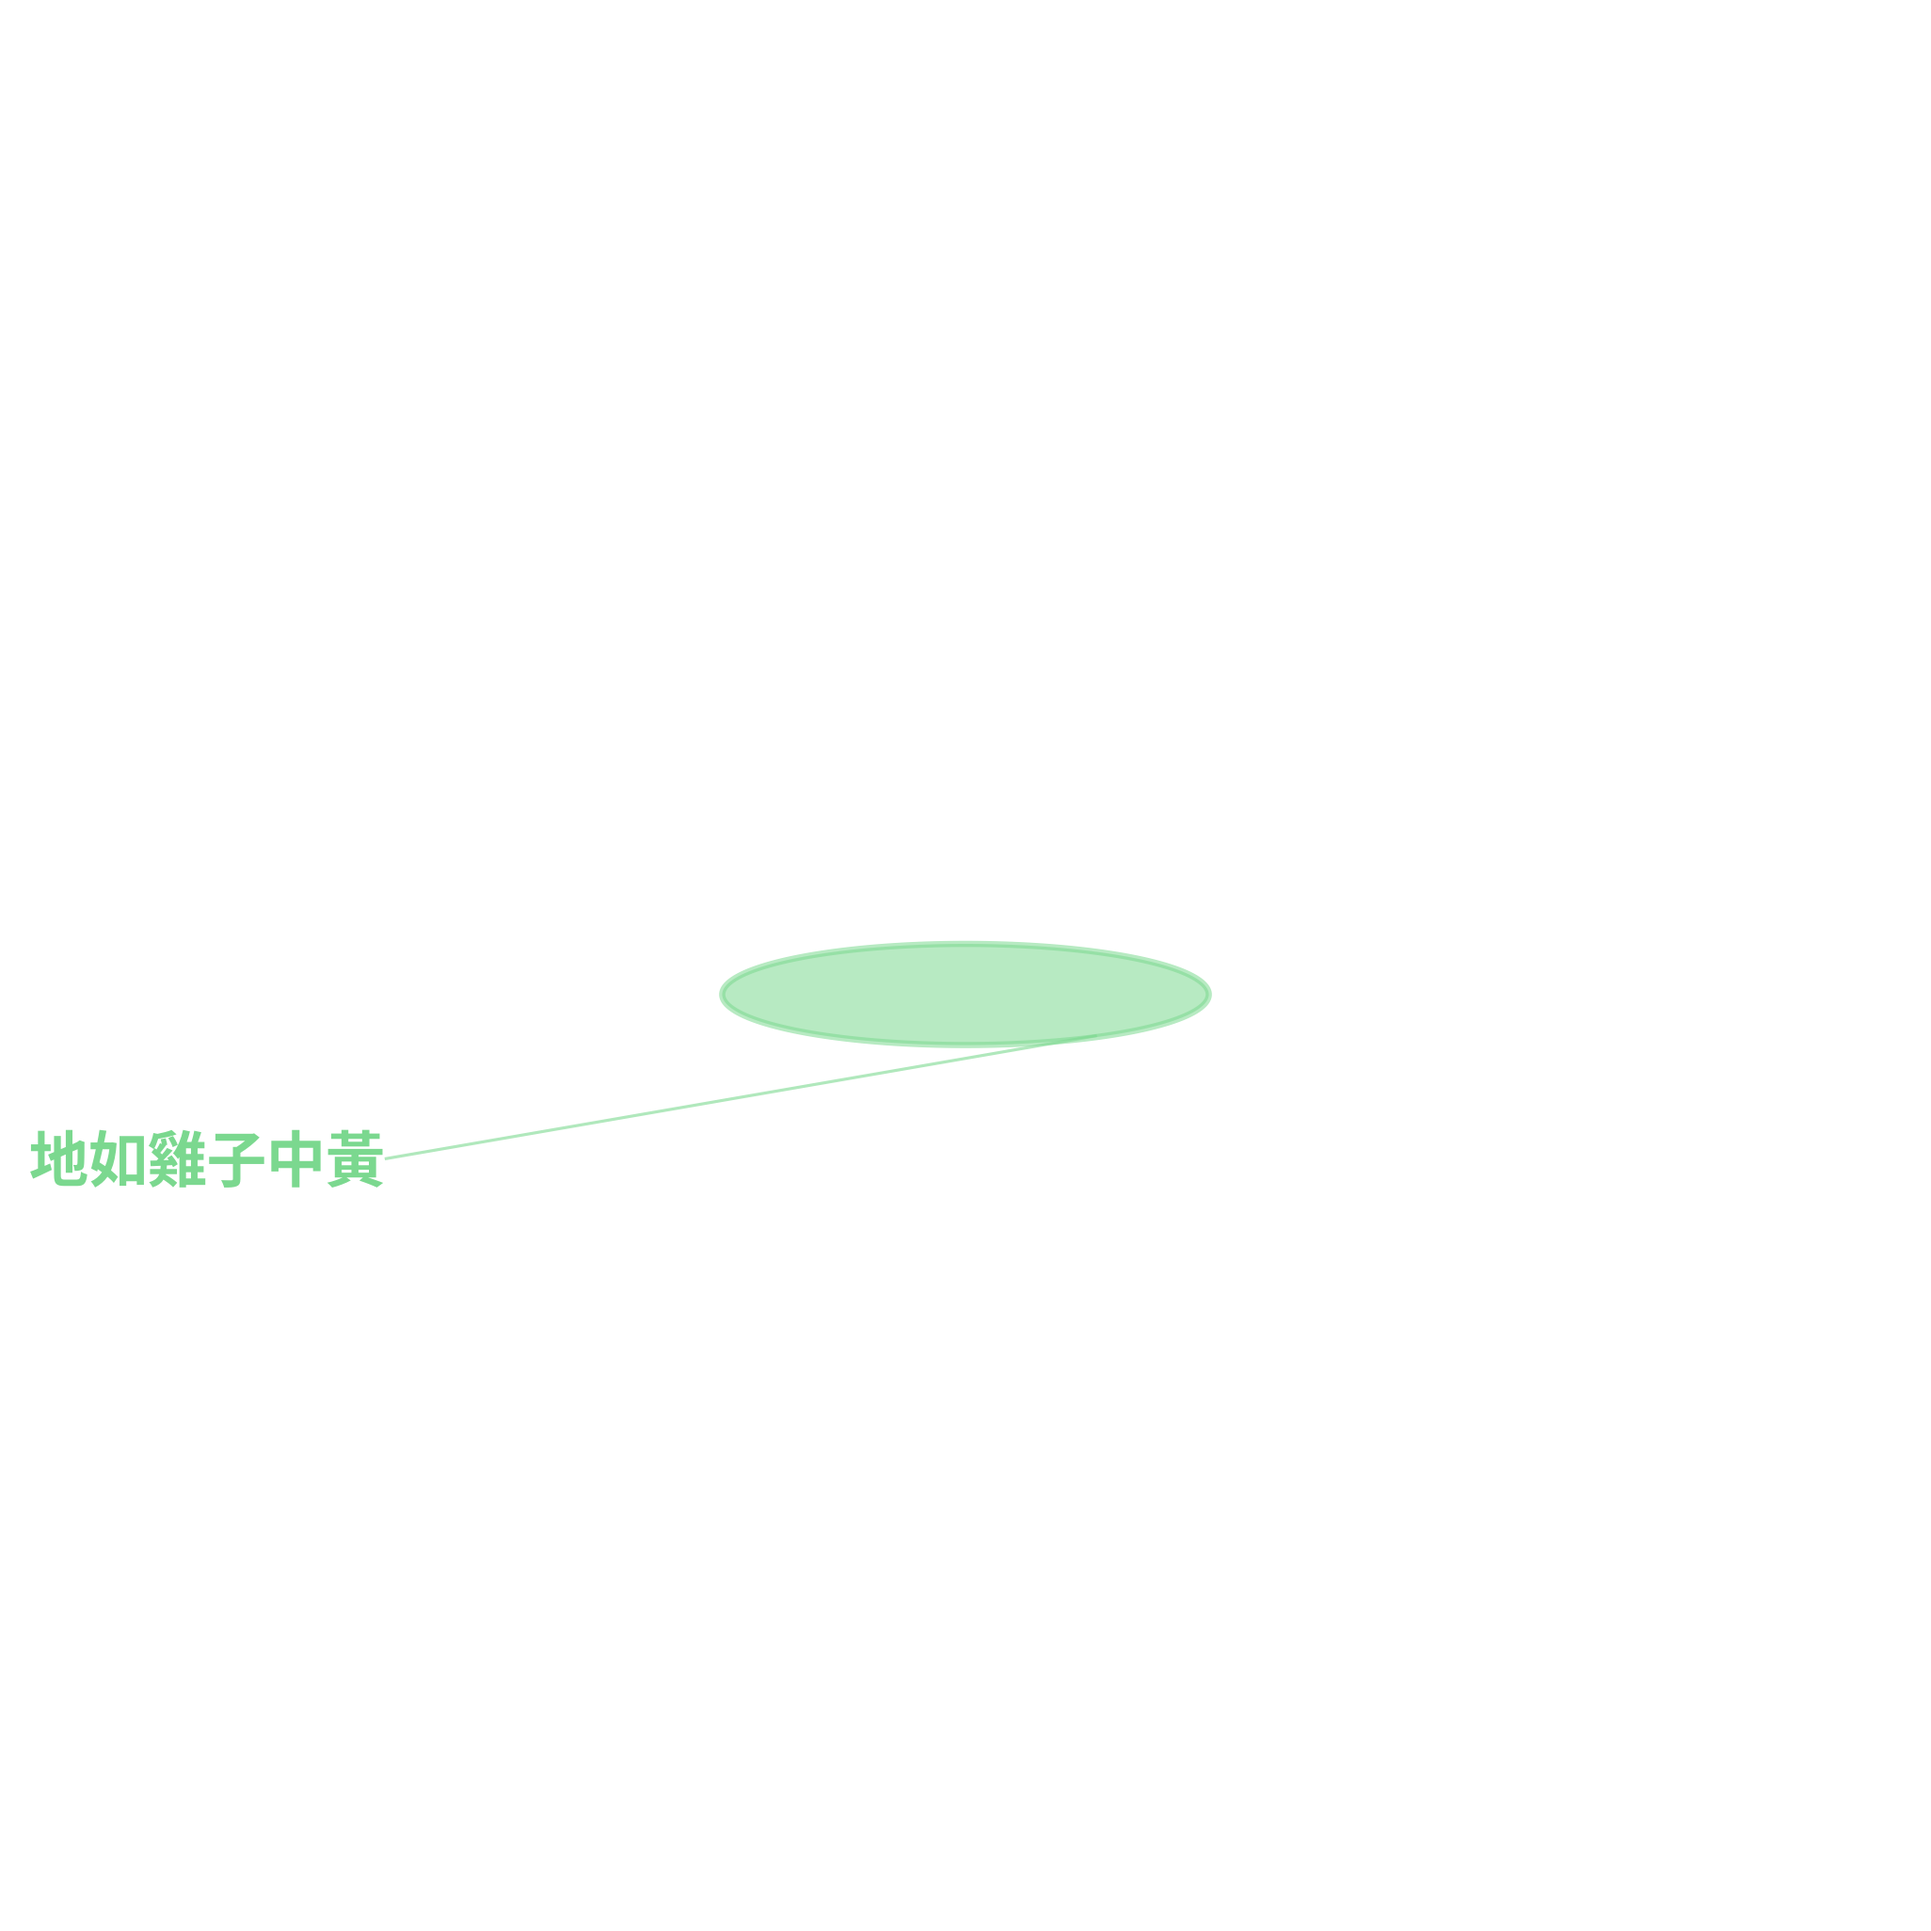
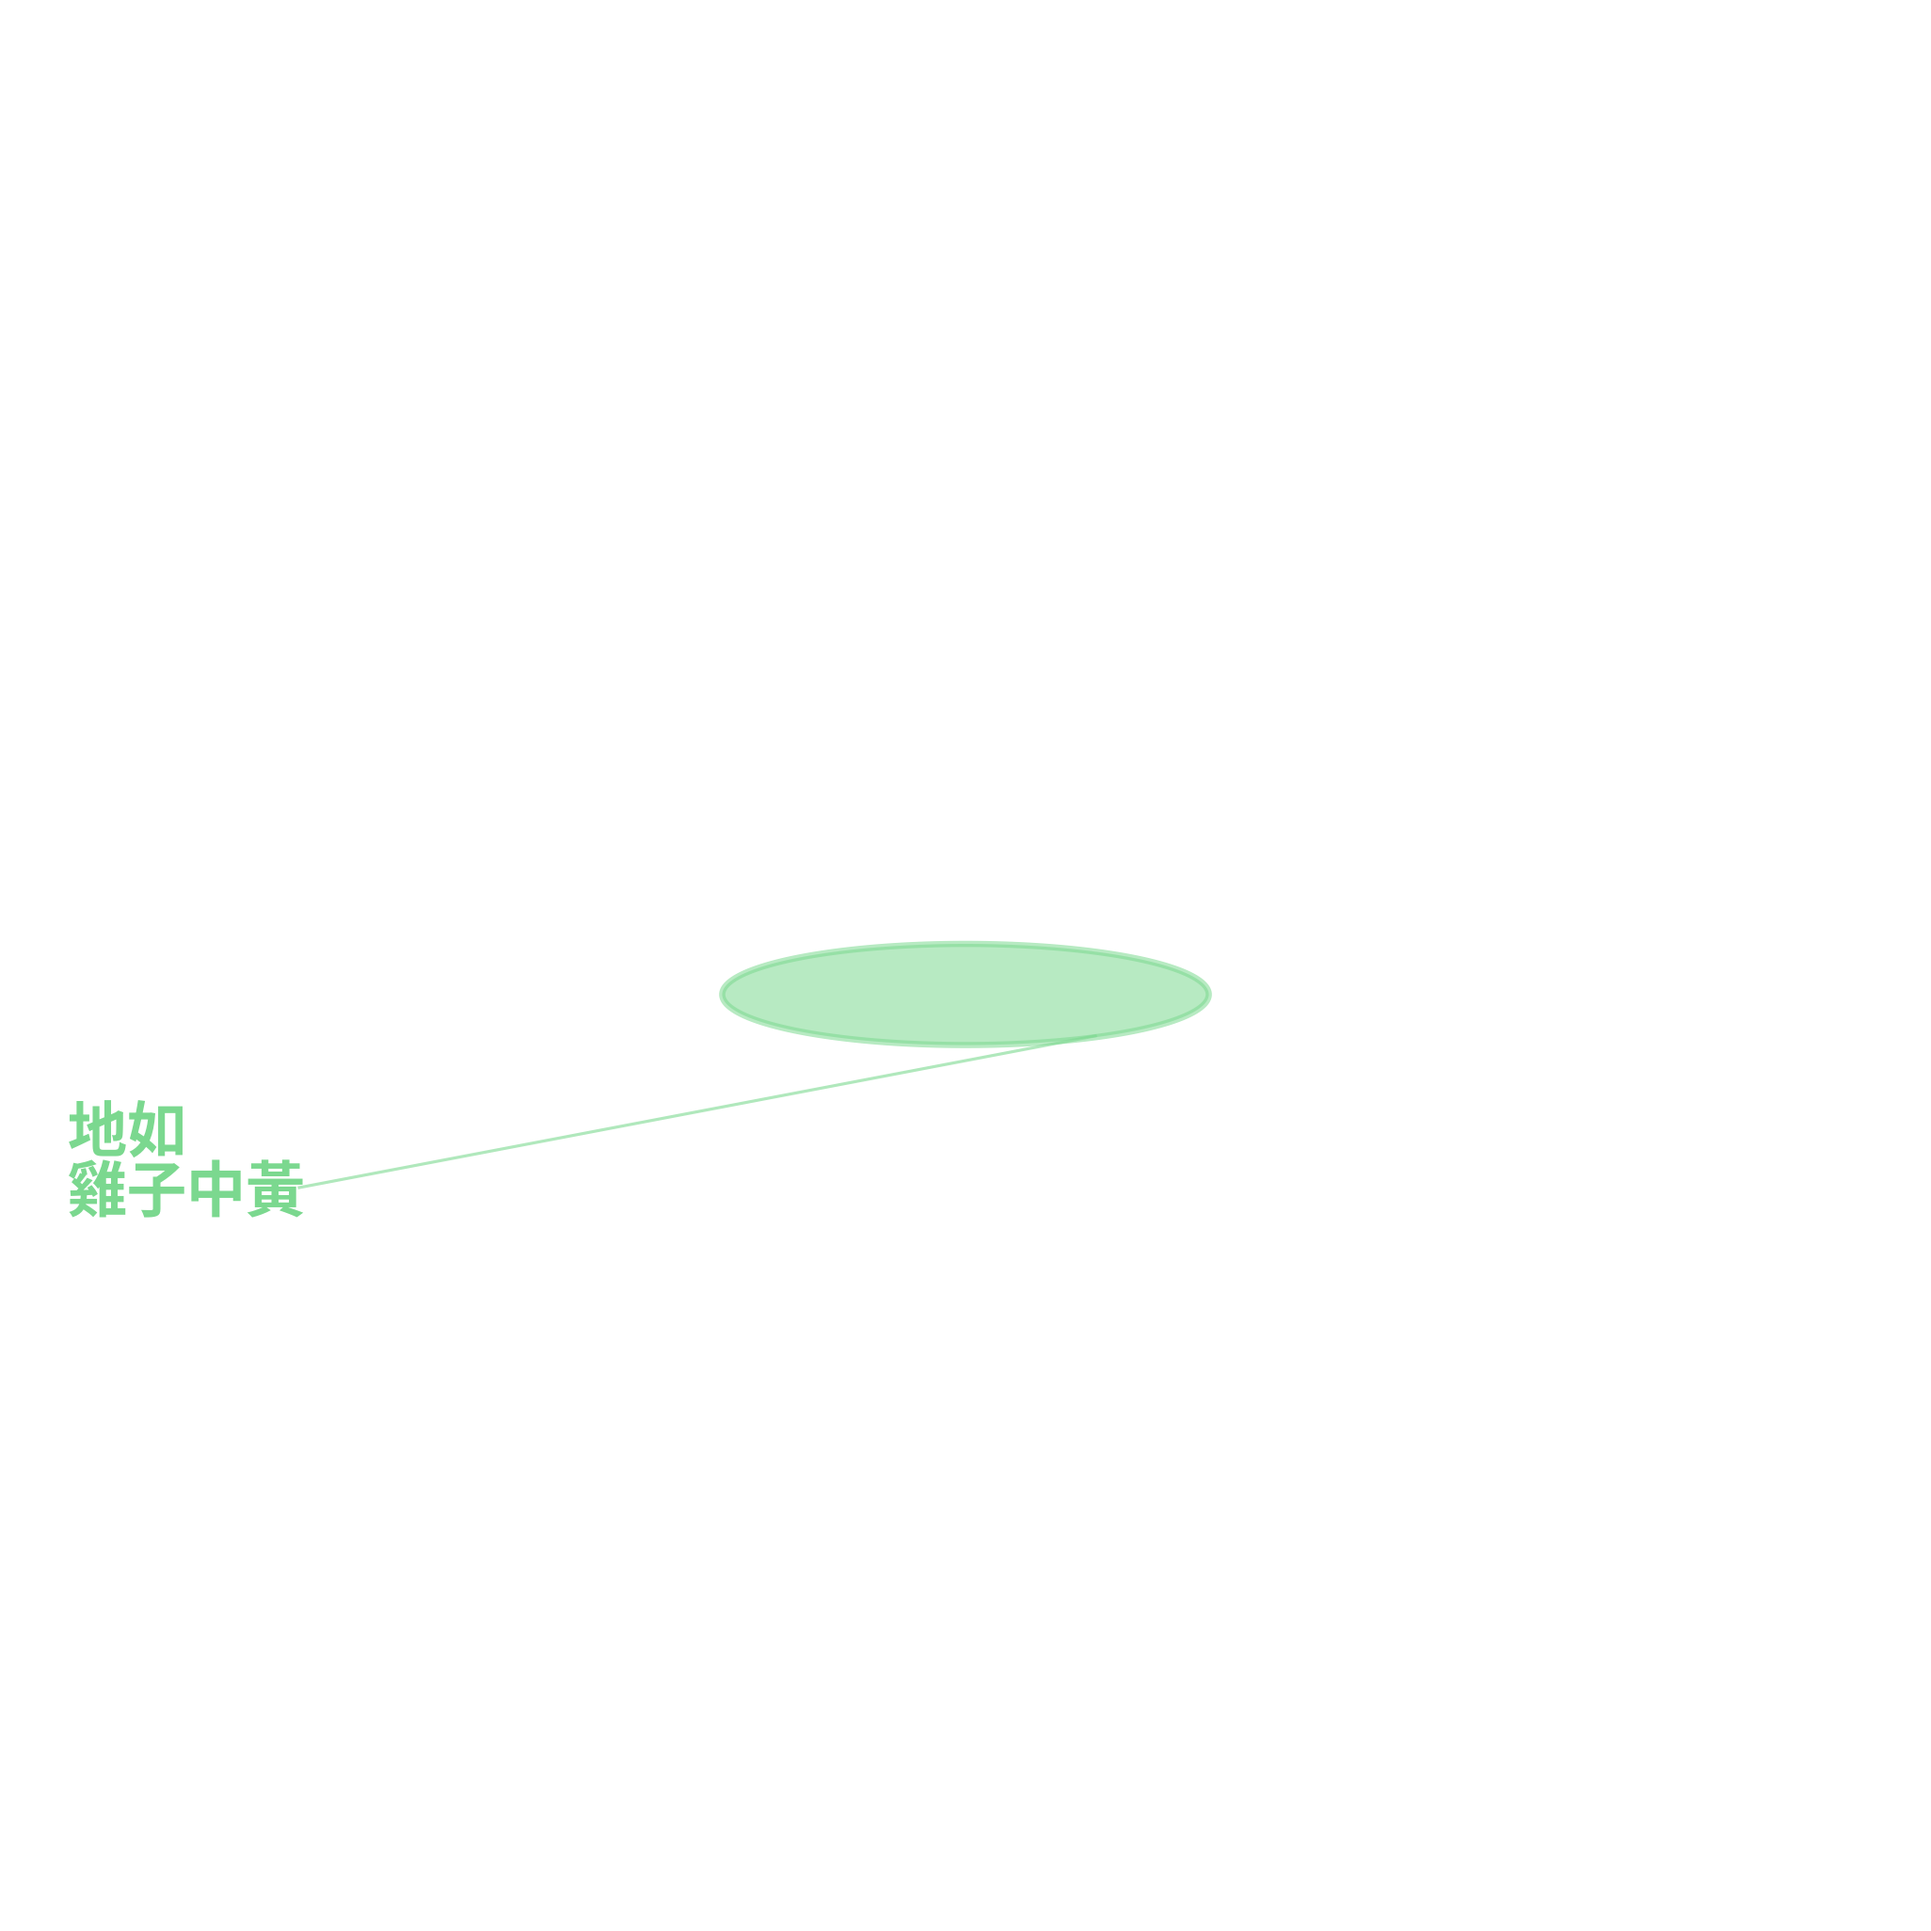
C-01 天球：左緣標籤內移（地如雞子中黃改兩行、北極出地三十六度）
Claude-Session: https://claude.ai/code/session_01StZzE6tWpXcy8oYxpE6GNa

Changed region(s): [[0.0, 0.5614, 0.2495, 0.655], [0.2807, 0.5614, 0.4055, 0.5926], [0.4366, 0.5302, 0.4678, 0.5614]]

diff --git a/02_製作流程SOP/make_c01_diagrams.py b/02_製作流程SOP/make_c01_diagrams.py
@@ -417,9 +417,9 @@ def hun_earth(ax):
     d = horizon_pts(0.42)
     ax.add_patch(Polygon([(x, y) for x, y, _ in d], closed=True, fc=GREEN, ec=GREEN, lw=2.5,
                          alpha=.55, zorder=5))
-    T(ax, -0.97, -0.20, "地如雞子中黃", 24, GREEN, ha="left")
+    T(ax, -0.93, -0.20, "地如\n雞子中黃", 24, GREEN, ha="left")
     ex, ey, _ = pj(-E1*0.42)
-    ax.plot([-0.60, ex-0.01], [-0.20, ey], c=GREEN, lw=1.2, alpha=.6)
+    ax.plot([-0.69, ex-0.01], [-0.23, ey], c=GREEN, lw=1.2, alpha=.6)
 
 
 def hun_poles(ax):
@@ -434,9 +434,9 @@ def hun_poles(ax):
     nh = pj(NORTH)
     ax.plot([HC[0], nh[0]], [HC[1], nh[1]], c=WHITE, lw=1.2, alpha=.5)
     mid = arc[len(arc)//2]
-    ax.plot([-0.74, mid[0]-0.02], [0.11, mid[1]], c=WHITE, lw=1.2, alpha=.5)
-    T(ax, -0.97, 0.14, "北極出地", 22, WHITE, ha="left")
-    T(ax, -0.97, 0.075, "三十六度", 22, WHITE, ha="left")
+    ax.plot([-0.71, mid[0]-0.02], [0.11, mid[1]], c=WHITE, lw=1.2, alpha=.5)
+    T(ax, -0.93, 0.14, "北極出地", 22, WHITE, ha="left")
+    T(ax, -0.93, 0.075, "三十六度", 22, WHITE, ha="left")
 
 
 def hun_equator(ax):
